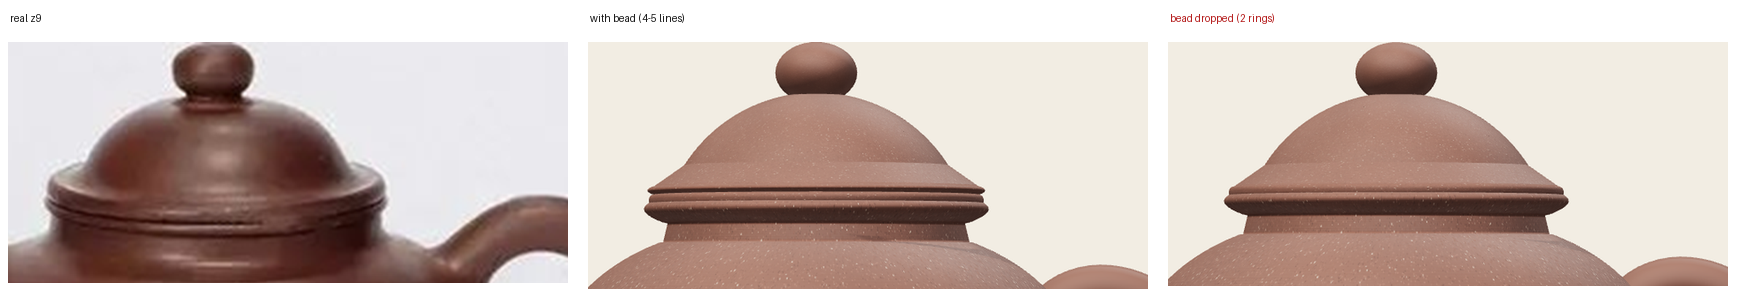
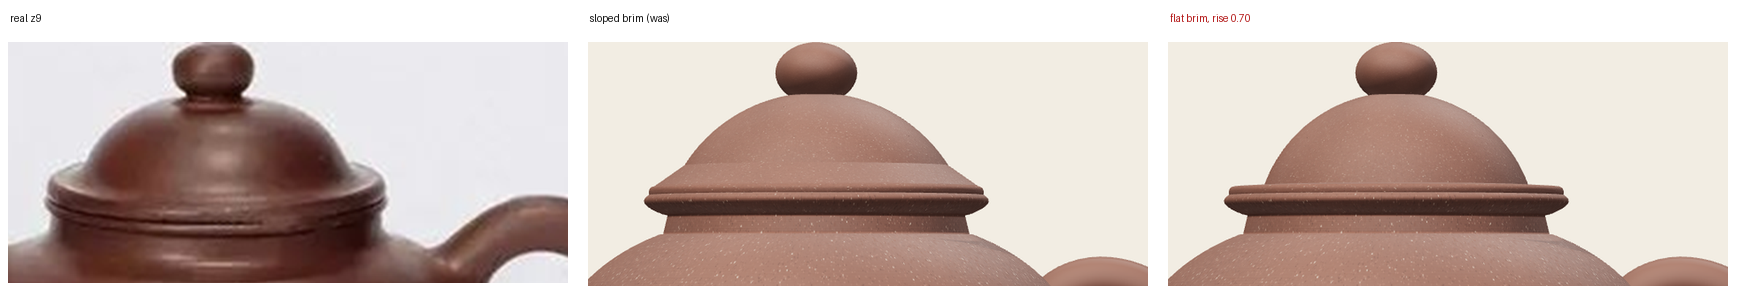
掇球: the lid brim is flat
It had been sloped, which was compensating for a dome that was too tall — a wide
shelf under a tall cap reads as a flying saucer, so I tilted the shelf instead of
fixing the cap. With the cap brought down to size the slope stopped earning its
place, and on both references the brim is plainly level.

Removing the slope also removes real height from the lid, and canon said so
straight away: 盖顶至底 ÷ 身径 fell to 0.94 (floor 0.95) and lid height to 0.235
of the rim diameter (floor 0.26). Both are measured rules, so the height had to
come back through the cap rather than by relaxing them — rise 0.55 -> 0.70,
which restores 0.98 and 0.294 with the brim still flat.

Twelve-view QC; canon and details pass on all six pots.

Claude-Session: https://claude.ai/code/session_01Au3NkrP4Zh9Vb2uEzJxxmj

diff --git a/src/components/lids.js b/src/components/lids.js
@@ -117,7 +117,7 @@ export const LIDS = {
     // the cap springs from the top of the brim, not from the seating plane
     top: (p, prof) =>
       (prof.mouthR + p.overhang - (p.brim ?? 0)) * p.rise
-      + p.thickness * 0.58 + (p.brim ?? 0) * 0.55
+      + p.thickness * 0.58
       + (p.bead ? p.beadH ?? 0.035 : 0),
     build(p, mouthR, material, prof) {
       const R = mouthR + p.overhang          // the rim, ball 2's widest circle
@@ -143,10 +143,12 @@ export const LIDS = {
       const Ri = Rs - T
       const rimEdge = Math.max(p.skirt ?? 0, T * 0.6)   // how far the skirt hangs
       const brimTop = T * 0.42
-      // The shelf between rim and dome climbs as it goes in. Held flat, a wide
-      // brim reads as a flying saucer; on the real pots it is a short stepped
-      // bevel hugging the dome.
-      const domeBase = brimTop + T * 0.16 + (p.brim ?? 0) * 0.55 + (p.bead ? p.beadH ?? 0.035 : 0)
+      // The brim is *flat*: a level annulus from the rim in to where the cap
+      // springs. It was sloped for a while, which was compensating for a dome
+      // that was too tall — a wide shelf under a tall dome reads as a flying
+      // saucer. With the cap brought down to size the slope stopped earning its
+      // place, and on the real pots the brim is plainly level.
+      const domeBase = brimTop + T * 0.16 + (p.bead ? p.beadH ?? 0.035 : 0)
       const thInner = Math.acos(
         Math.min(1, Math.max(-1, (Rs - h - domeBase) / Ri)),
       )

diff --git a/public/refs/index.html b/public/refs/index.html
@@ -49,7 +49,7 @@
 <figure><figcaption>掇球 — brim width against dome height, swept against both references</figcaption>
 <a href="lid_sweep.png"><img src="lid_sweep.png" alt=""></a></figure>
 
-<figure><figcaption>掇球 — dropping the lid bead: four or five fine lines down to two clean rings</figcaption>
+<figure><figcaption>掇球 — the lid brim: sloped (was) vs flat, beside the reference</figcaption>
 <a href="bead.png"><img src="bead.png" alt=""></a></figure>
 <figure><figcaption>掇球 — the collar band close up, after the staircase fix</figcaption>
 <a href="neck_after.png"><img src="neck_after.png" alt=""></a></figure>

diff --git a/README.md b/README.md
@@ -212,7 +212,7 @@ Families so far:
 |---|---|---|
 | 石瓢 | `cone` | a cone with the tip cut off: widest at the foot, flank never widening upward, straight within 3%; flat lid, bridge knob, straight spout, three feet |
 | 潘壶 | `pear` | 口小肚大 with an **inflection** neither other family can make: convex round the belly, concave as it draws in to the neck. Belly in the middle third, foot narrower than the belly, a **弯嘴** curved spout, 环把 ring handle, 圆珠钮, and a flat base standing on a **底圈** foot ring. (The seal belongs on the lid rim — a decoration rule, recorded but not checkable geometrically.) |
-| 掇球 | `superellipse` + `ballCap` | 掇 means *to stack*: body, lid and knob are three balls piled on one axis, each smaller than the one below. The identity is the proportions between them — the whole pot fits a circle (盖顶至底 ≈ 身径), the mouth is the golden part of the body (E/E2 = 0.618), the lid is a true spherical cap springing from inside a narrow brim, hanging a **skirt** down over the body's projecting rim collar (唇) — 压盖 means the lid presses over the mouth, and that collar-and-skirt pair is what separates ball 1 from ball 2. A **一弯嘴** whose last third turns up so the lip faces the sky, a short **neck** carrying a **collar that stands proud**, with the lid's own ring stacked on it — two rings, each with its own shadow line. A **一弯嘴** built from its tangent angle so the S is guaranteed, an ordinary **耳形环把** — a *teardrop*, thick at the shoulder, tapering down — *not* 西施's 倒把, and a 圈足 |
+| 掇球 | `superellipse` + `ballCap` | 掇 means *to stack*: body, lid and knob are three balls piled on one axis, each smaller than the one below. The identity is the proportions between them — the whole pot fits a circle (盖顶至底 ≈ 身径), the mouth is the golden part of the body (E/E2 = 0.618), the lid is a true spherical cap springing from inside a *flat* brim, hanging a **skirt** down over the body's projecting rim collar (唇) — 压盖 means the lid presses over the mouth, and that collar-and-skirt pair is what separates ball 1 from ball 2. A **一弯嘴** whose last third turns up so the lip faces the sky, a short **neck** carrying a **collar that stands proud**, with the lid's own ring stacked on it — two rings, each with its own shadow line. A **一弯嘴** built from its tangent angle so the S is guaranteed, an ordinary **耳形环把** — a *teardrop*, thick at the shoulder, tapering down — *not* 西施's 倒把, and a 圈足 |
 | 西施 | `superellipse` | fuller than an ellipse and asymmetric top to bottom; widest near mid-height, wider than tall, no straight run anywhere in the flank; a wide mouth closed by a **截盖** lid that runs up the body's own curve until the ball is complete (a flat-topped lid reads as the wrong family), a bead knob on the neck it converges to, a **短流略粗** spout, a fully-round **倒耳把** thick at the shoulder and tapering to the belly, flat footless base |
 
 **The lip is cut oblique, and which way is measured.** A spout finished square
